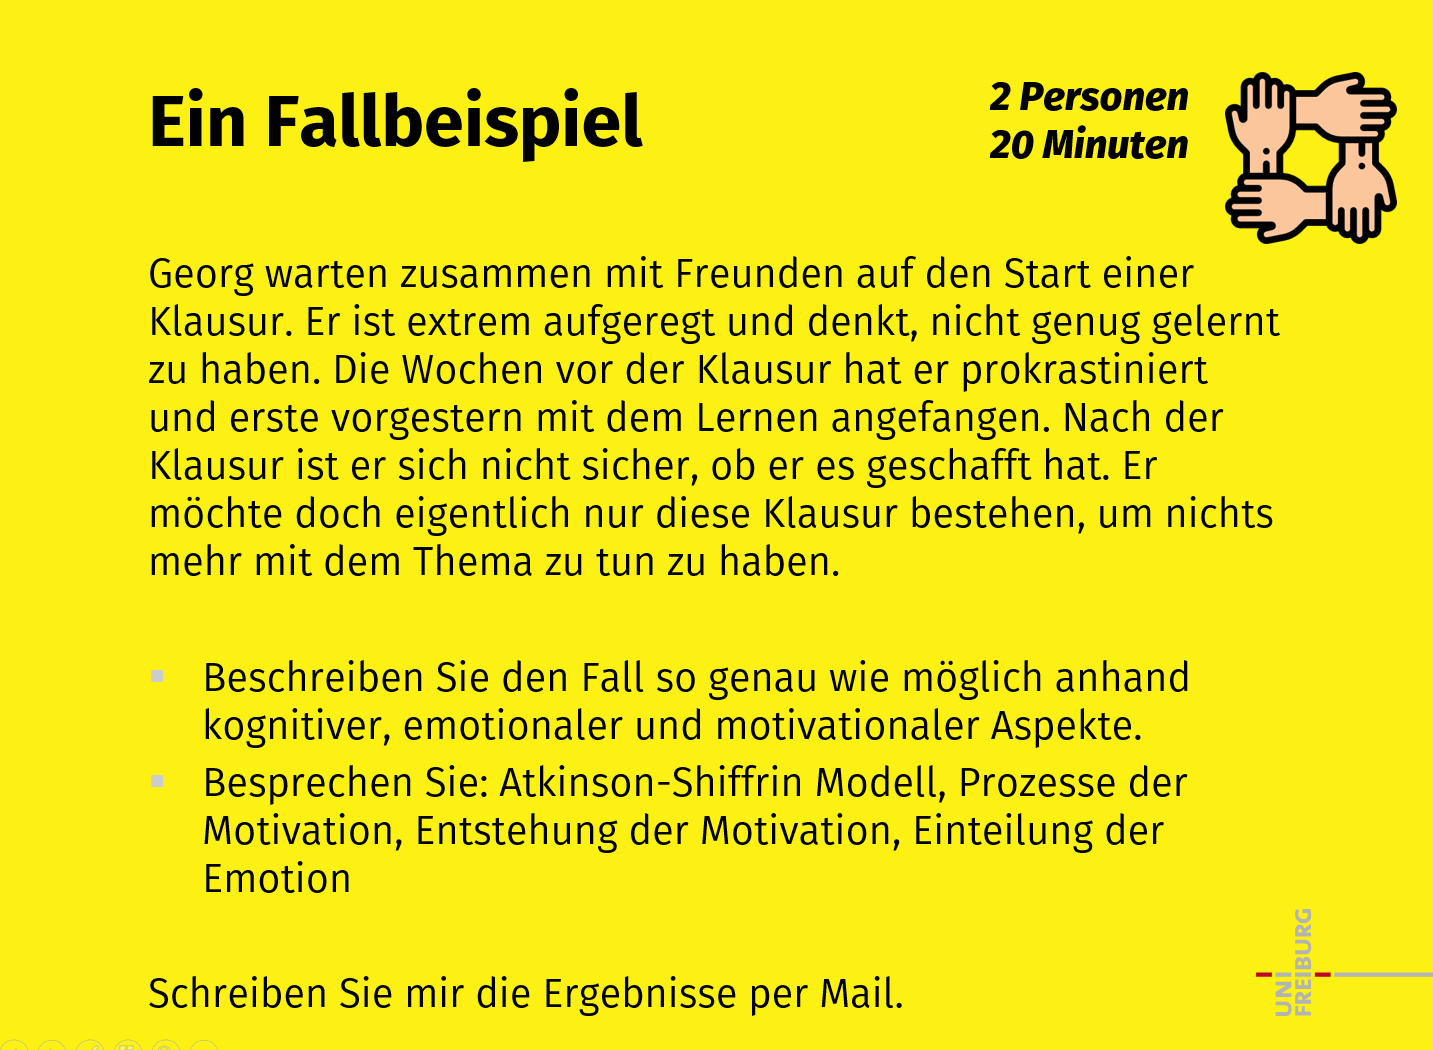
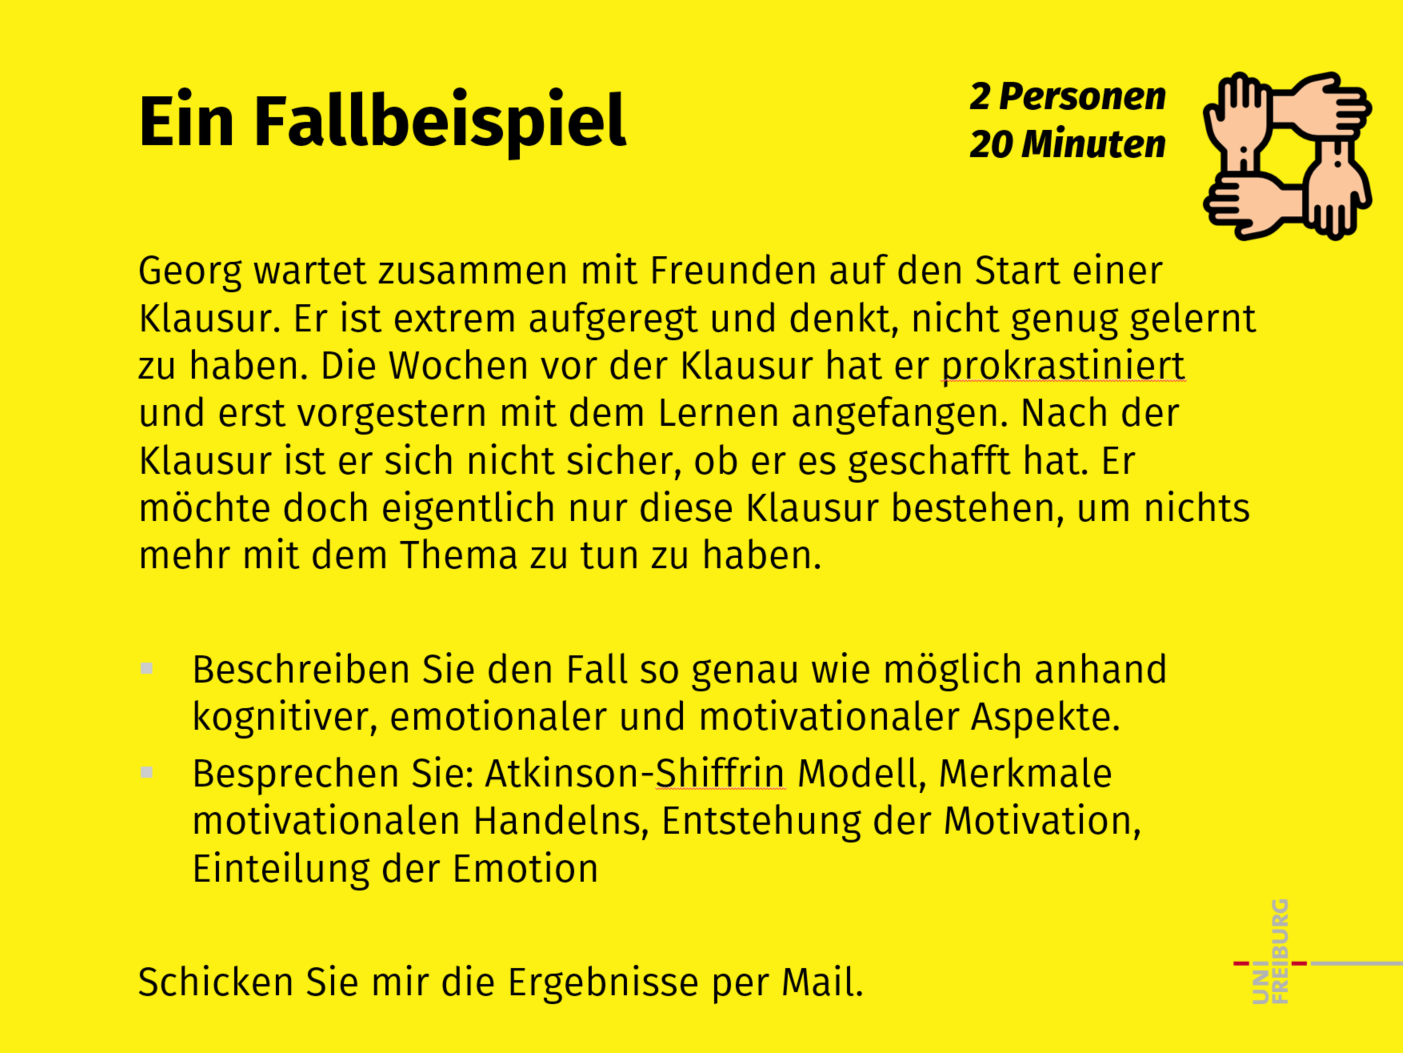
feat: update markdown

diff --git a/data/markdown/00_Einführung/04_Fallvignette/05_faelle.md b/data/markdown/00_Einführung/04_Fallvignette/05_faelle.md
@@ -1,0 +1,18 @@
+---
+moduleTitle: Einführung
+unitTitle: Ausführliches Essay
+title: Fälle
+module: 0
+unit: 4
+subunit: 5
+type: information
+---
+
+
+Leo ist 15 Jahre alt und besucht die 10. Klasse eines Gymnasiums. Bis vor kurzem ist Leo gerne zur Schule gegangen. Er war beliebt, hatte viel Spaß mit seinen Mitschülern und musste kaum für gute Noten lernen, weil ihm alles „zuflog“. Seit dem neuen Schuljahr, mit neuen Lehrern, einem Klassenwechsel und schwierigerem Stoff hat sich die Freude an der Schule stark verringert. Leos Notdurchschnitt ist um 3 Noten gesunken und er hat sich mit seinen besten Schulfreunden verstritten. Da er bisher gewohnt war, ohne viel Mühe der Beste in der Klasse zu sein, fühlt es sich für ihn nicht gut an, um seine mittelmäßigen Noten kämpfen zu müssen. Und weil er nur noch wenige Freunde in der Schule hat, fühlt er sich hilflos und einsam. Obwohl er noch vor kurzem beliebt und selbstsicher war, fühlt sich das zur Schule gehen auf einmal beängstigend an. Früher hat sich Leo über die in seinen Augen „schlechten“ Schüler lustig gemacht. Plötzlich gehört er nun zu dieser Schülergruppe und muss sich an der eigenen Nase packen. Sich das eingestehen zu müssen kratzt an seinem Selbstbewusstsein. Er würde die Situation gerne ändern, ist aber irgendwie auch zu stolz und zu faul dazu, da ihm bisher alles zugeflogen ist. Es fällt ihm schwer, von heute auf morgen sein Bild von sich als Schüler und seine Art und den Umfang seines Lernens zu ändern. Er fühlt sich erdrückt von dem Gefühl, versagt zu haben und keinen Rückhalt mehr in der Klasse zu finden. Das Lernen frustriert ihn und er möchte keine Hilfe von seinen Eltern annehmen. Gleichzeitig merkt er, dass er wenig Motivation und Lernstrategien besitzt und er noch dazu ja gerade unsicher und schlecht gelaunt ist. Leo würde seine Schulleistung gerne verbessern – allerdings mit so wenig Aufwand wie möglich – und fände es cool, wieder gerne zur Schule zu gehen, weiß aber nicht, an welchem Punkt er mit einer Veränderung beginnen soll.
+
+Als Manuel frisch an der Uni war, überforderten ihn Vielzahl an Kursen, Klausurterminen, etc. Er setzte sich permanent selbst unter Druck und redete sich ein, alles müsse sofort „perfekt“ laufen. Dementsprechend lernte er sehr viel auf die Klausuren, bis zu 10 Stunden am Tag, damit die Ergebnisse seinen hohen Erwartungen entsprachen. Als die Klausuren vorbei waren, hatte er plötzlich keine konkrete Aufgabe mehr und fühlte sich etwas verloren, weil das Semester aus reinem Lernen bestanden hatte und er sein Freizeitleben ganz schön vernachlässigt hatte. Die ersten Klausurergebnisse kamen nach einigen Wochen und alles hatte so geklappt, wie er sich das vorgestellt hatte: Lauter gute Noten. Bis auf eine Klausur, die viel schwieriger gewesen war, als erwartet. Er hatte zwar bestanden, aber ziemlich knapp und das warf ihn aus der Bahn. Er war total traurig und enttäuscht von sich selbst und machte sich Vorwürfe, nicht genug gelernt zu haben, obwohl er wusste, dass es faktisch gar kein Problem gab: Er hatte ja alles bestanden. Trotzdem merkte er, dass ihm seine Noten extrem wichtig waren und es fühlte sich an, als würden die Noten über seine Laune und sein Selbstwertgefühl entscheiden. Er merkte, dass der ganze Druck von ihm selbst kam, war aber zu unsicher, tiefer zu graben um zu schauen, wo dieser Perfektionismus seinen Ursprung hatte. Das nächste Semester kam und Manuel beschloss, eine große Veränderung vorzunehmen: Sich selbst weniger Druck bezüglich der Uni machen und das Leben darum herum mehr genießen. Das klappte auch gut und er hatte viel Spaß, war jeden Abend weg und hatte endlich das berühmte Studentenleben von dem alle erzählt hatten. Gleichzeitig merkte er, wie er den Überblick über seine Kurse verlor, ständig zu spät kam und ihn die Fristen für Abgaben viel zu schnell einholten. Dadurch, dass er aber fand, er hätte sowieso keine Zeit zum Lernen gehabt, war er dann gar nicht so enttäuscht über die eher mittelmäßigen Klausurergebnisse. Aber als er später darüber nachdachte, merkte er, dass er schon gerne bessere Noten gehabt hätte, weil er ja wusste, dass er es besser konnte. Für das nächste Semester hat sich Manuel vorgenommen, sein Lernverhalten wieder zu ändern. Allerdings will er nicht, dass es so extrem und zwanghaft wird, wie zu Beginn, aber auch nicht so super locker, wie im letzten Semester. Er weiß nicht genau, was ein gutes Mittelmaß für ihn wäre und wo er anfangen soll, etwas zu verändern, da er befürchtet, zu viel Uni oder zu viel Freizeit zu verpassen.
+
+Im Sommer werde ich mit meiner besten Freundin eine Reise durch Tunesien machen. Um mich besser verständigen zu können, würde ich gerne etwas Arabisch lernen. Außerdem finde ich es immer wieder interessant etwas über neue Kulturen zu erfahren und mich vor meiner Reise mich über Historisches zu informieren. Mir macht es sehr viel Spaß zu lesen und mich weiterzubilden und ich hoffe ich finde dafür noch Zeit. Durch meinen Job als Oberärztin an der Uniklinik Freiburg, habe ich nur sehr wenig Freizeit und muss in dieser meistens irgendwelche Hausarbeiten erledigen oder mich um meine Patenkinder kümmern, was ich im Normalfall auch sehr gerne mache. Oft kommen dann meine privaten Interessen zu kurz, was mich auf eine gewisse Art und Weise traurig macht und ich mich darüber ärgere, dass ich immer so viel arbeiten muss. Am liebsten würde ich vor meinen Reisen schon ein oder zwei Wochen Urlaub nehmen, damit ich mich komplett darauf konzentrieren und mich ausführlich informieren kann. Wenn ich aber die Sprache lernen möchte, dann schafft man das eben auch nicht in zwei Wochen. Vor allem Arabisch ist relativ schwer zu lernen, da arabische Schriftzeichen verwendet werden und keine lateinischen. Ich habe versucht über eine App ein paar Wörter und Sätze zu lernen, bin aber dann schon an den einfachsten Sätzen verzweifelt. Oft habe ich aber auch einfach keine Lust und Motivation mehr wenn ich nach einer langen Schicht nach Hause komme und mich dann noch vor den PC zu setzen, meinen Kopf anzustrengen und etwas zu lernen.
+
+Jeden Dienstag treffen wir uns in unserer Lerngruppe, um gemeinsam zu lernen. Wir sind vier Leute und bereiten uns gerade auf das Matheabitur vor. Wir haben noch genau drei Wochen Zeit, um zu üben und uns gegenseitig Formeln und weitere mathematische Dinge zu erklären. Ich freue mich eigentlich immer auf unser Treffen, weil ich finde in der Gruppe ist das Lernen nur halb so schlimm und da ich sowieso immer ein schlechter Schüler in Mathe war, können die Anderen mir mit meinen Schwierigkeiten helfen. Leider bin ich nach der Lernphase meistens ziemlich erschöpft und manchmal auch deprimiert, weil ich viele Dinge nicht so hinbekomme wie ich es gern würde. Da wäre zum Beispiel das Ableiten einer Funktion. Einen Fehler mache ich immer und das nervt mich richtig. Außerdem ist es einfach so anstrengend, weil man die ganze Zeit sehr konzentriert sein muss und sobald ich dann Zuhause bin, muss ich mich erstmal belohnen und lege ich mich sofort ins Bett um mich ein bisschen zu erholen und ein Stück Schokolade zu essen. Auf der anderen Seite bin ich aber oft von mir selbst überrascht, dass ich andere Dinge viel besser hinbekomme als andere aus der Gruppe, zum Beispiel in Textaufgaben. Das spornt mich irgendwie an und ich gebe mir mehr Mühe, damit ich zumindest in diesen Dingen weiterhin besser bleibe als die Anderen. 

diff --git a/data/markdown/01_Kognition, Motivation und Emotion/03_Todo/00_literatur_lesen.md b/data/markdown/01_Kognition, Motivation und Emotion/03_Todo/00_literatur_lesen.md
@@ -1,11 +1,33 @@
 ---
 moduleTitle: Kognition, Motivation und Emotion
 unitTitle: Todo
-title: Literatur lesen
+title: Todo
 module: 1
 unit: 2
 subunit: 0
 type: information
 ---
 
+
+## Literatur lesen
+
 Lesen Sie [Kapitel 7 des Buches How People Learn II](https://ilias.uni-freiburg.de/goto.php?target=file_1261251_download&client_id=unifreiburg).
+
+## Kurzessay verfassen
+
+Verfassen Sie ein Kurzessay zu folgendem Fall:
+
+
+> Mein Name ist Sabrina. Jeden Dienstag treffen wir uns in unserer Lerngruppe, um gemeinsam zu lernen. Wir sind vier Leute und bereiten uns gerade auf das Matheabitur vor. Wir haben noch genau drei Wochen Zeit, um zu üben und uns gegenseitig Formeln und weitere mathematische Dinge zu erklären. Ich freue mich eigentlich immer auf unser Treffen, weil ich finde in der Gruppe ist das Lernen nur halb so schlimm und da ich sowieso immer ein schlechter Schüler in Mathe war, können die Anderen mir mit meinen Schwierigkeiten helfen. Leider bin ich nach der Lernphase meistens ziemlich erschöpft und manchmal auch deprimiert, weil ich viele Dinge nicht so hinbekomme wie ich es gern würde. Da wäre zum Beispiel das Ableiten einer Funktion. Einen Fehler mache ich immer und das nervt mich richtig. Außerdem ist es einfach so anstrengend, weil man die ganze Zeit sehr konzentriert sein muss und sobald ich dann Zuhause bin, muss ich mich erstmal belohnen und lege ich mich sofort ins Bett um mich ein bisschen zu erholen und ein Stück Schokolade zu essen. Auf der anderen Seite bin ich aber oft von mir selbst überrascht, dass ich andere Dinge viel besser hinbekomme als andere aus der Gruppe, zum Beispiel in Textaufgaben. Das spornt mich irgendwie an und ich gebe mir mehr Mühe, damit ich zumindest in diesen Dingen weiterhin besser bleibe als die Anderen. 
+
+
+Beschreiben Sie diesen Fall anhand folgender Leitfragen:
+
+* Anhand welcher Motivationstheorien, die in dem Kapitel How People Learn II dargestellt wurden, lässt sich das motivierte Handeln (hier Vorbereitung auf das Matheabitur) am besten erklären (z.B. Intrinsic Motivation oder Interest)? 
+* Erklären Sie in ihren eigenen Worten das motivierte Handeln der Person anhand von zwei der zentralen Motivationstheorien aus dem Kapitel How People Learn II (z.B. Intrinsic Motivation oder Interest)
+* Beschreiben Sie anhand des Heckhausenmodells, wie motiviertes Handeln bei der Person entsteht
+
+
+Laden Sie Ihr Kurzessay auf [Ilias](https://ilias.uni-freiburg.de/goto.php?target=exc_1239027&client_id=unifreiburg) hoch. Nehmen Sie Ihr Kurzessay mit in das Seminar. 
+
+

diff --git a/data/markdown/02_Motivation und Lernen/00_Vortrag/00_einfuehrung.md b/data/markdown/02_Motivation und Lernen/00_Vortrag/00_einfuehrung.md
@@ -1,14 +1,16 @@
 ---
 moduleTitle: Motivation und Lernen
 unitTitle: Kurzvortrag
-title: Einführung
+title: Wie entsteht Motivation?
 module: 2
 unit: 0
 subunit: 0
 type: video
 ---
 
-1. Motivation kurz nochmal erklären -> Auf Diagramm eingehen. 
+
+
+<!-- 1. Motivation kurz nochmal erklären -> Auf Diagramm eingehen. 
 2. Motiviert sein ist gut für eine Handlung weil
 	* Better learning outcomes
 	* Perform better on standardized tests
@@ -94,3 +96,4 @@ Goals
 
 ## Conlusions am Ende
 
+ -->

diff --git a/data/markdown/02_Motivation und Lernen/01_Ergebnissicherung/00_fallbesprechung.md b/data/markdown/02_Motivation und Lernen/01_Ergebnissicherung/00_fallbesprechung.md
@@ -1,0 +1,12 @@
+---
+moduleTitle: Motivation und Lernen
+unitTitle: Fallanalyse
+title: Fallanalyse Sabrina
+module: 2
+unit: 1
+subunit: 2
+type: instruction
+---
+
+
+![](fallbesprechung_sabrina.PNG)

diff --git a/data/markdown/02_Motivation und Lernen/00_Vortrag/02_zentrale_theorien.md b/data/markdown/02_Motivation und Lernen/00_Vortrag/02_zentrale_theorien.md
@@ -1,0 +1,9 @@
+---
+moduleTitle: Motivation und Lernen
+unitTitle: Kurzvortrag
+title: Zentrale Motivationstheorien
+module: 2
+unit: 0
+subunit: 2
+type: video
+---

diff --git a/data/markdown/02_Motivation und Lernen/00_Vortrag/01_rhetorische_struktur.md b/data/markdown/02_Motivation und Lernen/00_Vortrag/01_rhetorische_struktur.md
@@ -1,0 +1,9 @@
+---
+moduleTitle: Motivation und Lernen
+unitTitle: Kurzvortrag
+title: Rhetorische Struktur
+module: 2
+unit: 0
+subunit: 1
+type: video
+---
